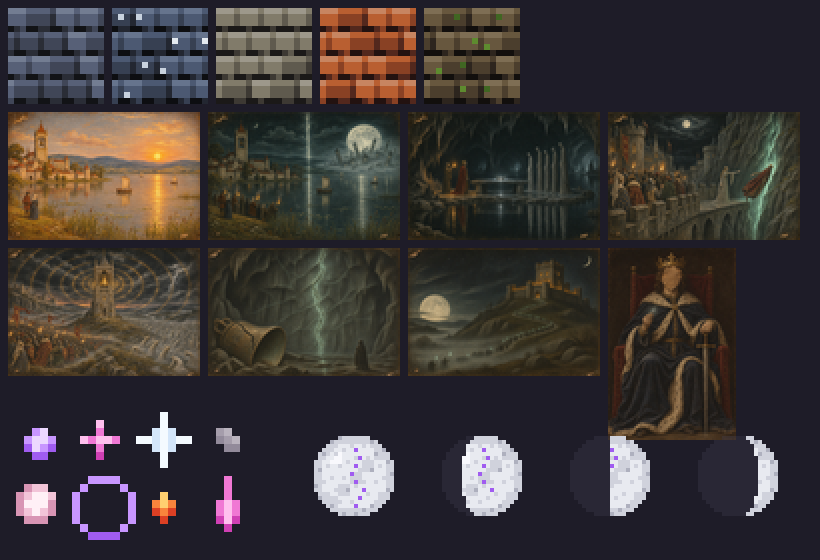
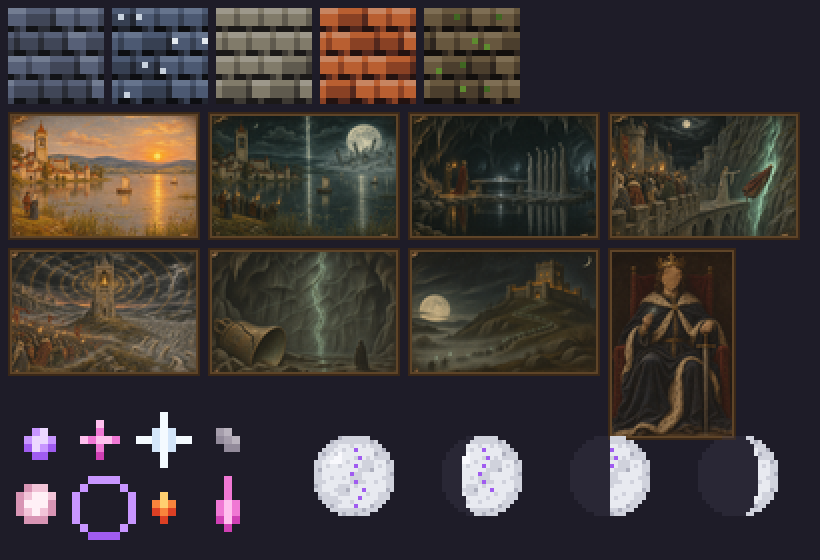
Drop duplicate painting files: the lore portraits already hang in game
Claude-Session: https://claude.ai/code/session_01A4uWhYRSEH2XWBk9pdCzAk

diff --git a/studio/art/build_missing2.py b/studio/art/build_missing2.py
@@ -1,6 +1,5 @@
-"""Missing art, batch 2 (2026-11-10 audit): regional roof shingles, Mateo's eight paintings at game size,
-a particle sprite sheet with four particle effects, and an uneasy moon.   python3 build_missing2.py [repo root]
-Mateo's paintings are only resized, never repainted."""
+"""Missing art, batch 2 (2026-11-10 audit): regional roof shingles,
+a particle sprite sheet with four particle effects, and an uneasy moon.   python3 build_missing2.py [repo root]"""
 import os, sys, json, math, random
 sys.path.insert(0, os.path.dirname(os.path.abspath(__file__)))
 from PIL import Image
@@ -35,13 +34,10 @@ os.makedirs(RP + 'textures/blocks/regional', exist_ok=True); roofs = []
 for i, (reg, (rp, kw)) in enumerate(ROOFS.items()):
     t = shingles(rp, seed=7 + i, **kw); t.save(RP + f'textures/blocks/regional/siege_roof_shingles_{reg}.png'); roofs.append(t.im.copy())
 
-# ---- 2. Mateo's paintings, resized only (32 px per block: 3x2 blocks, plate 8 is 2x3)
-os.makedirs(RP + 'textures/entity/painting', exist_ok=True); plates = []
-for n in range(1, 9):
-    src = ROOT + f'lore-book/plates/art/plate_{n}.jpg'
-    if not os.path.exists(src): continue
-    im = Image.open(src).convert('RGB'); size = (96, 64) if im.width > im.height else (64, 96)
-    im = im.resize(size, Image.LANCZOS).convert('RGBA'); im.save(RP + f'textures/entity/painting/plate_{n}.png'); plates.append(im)
+# ---- 2. Mateo's paintings: already in the game as textures/entity/portrait/plate_1..8.png (lore thread,
+# studio/build_lore_portraits.py). Only shown on the sheet here, nothing is written.
+plates = [Image.open(RP + f'textures/entity/portrait/plate_{n}.png').convert('RGBA') for n in range(1, 9)
+          if os.path.exists(RP + f'textures/entity/portrait/plate_{n}.png')]
 
 # ---- 3. particle sheet: 8 sprites of 8x8 on a 32x16 sheet
 VI = fixed('#2a1250', '#4a1e88', '#7234c4', '#a05cf0', '#c896ff', '#ecd8ff'); MG = fixed('#3a0c38', '#6a1660', '#a0248c', '#d040b4', '#f078d4', '#ffc0ee')

diff --git a/studio/build_manifest.py b/studio/build_manifest.py
@@ -177,7 +177,7 @@ g("ballista","Ballista","Siege machines",[{"label":"Ballista","model":"entity","
 g("ram","Battering Ram","Siege machines",[{"label":"Ram","model":"entity","geo":"geometry.siege_battering_ram","mats":{"*":E+'siege_battering_ram.png'}}],"Shown at model size. In game it's scaled up 1.35x.")
 g("quartermaster","Quartermaster","Mobs",[{"label":"Quartermaster","model":"entity","geo":"geometry.villager.v1.8","mats":{"*":E+'siege_quartermaster.png'}}])
 g("roofs_regional","Roof shingles by region","Regional styles",[cube(r.title(),one('regional/siege_roof_shingles_'+r)) for r in ("vale","frostmarch","saltreach","emberwaste","blackfen")],"Slate, frosted slate, driftwood shakes, fired clay, mossy thatch. Painted, not wired as blocks yet.")
-g("plates","Your eight paintings, game size","Lore and library",[{"label":"Plate %d"%k,"model":"item","mats":{"*":'textures/entity/painting/plate_%d.png'%k}} for k in range(1,9)],"Your own paintings, only made smaller (three blocks by two). Not hanging in the game yet.")
+g("plates","Your eight paintings, game size","Lore and library",[{"label":"Plate %d"%k,"model":"item","mats":{"*":'textures/entity/portrait/plate_%d.png'%k}} for k in range(1,9)],"Your own paintings, only made smaller (three blocks by two). They hang in the settlement Libraries; the last one only in the Burned Archive.")
 g("particles","Particles","The Hollow",[{"label":"Sheet","model":"item","mats":{"*":'textures/particle/hc_particles.png'}}],"Mote, vein spark, glint, ash flake, spore, sung note, ember, moss drip. Seven effects are defined; nothing uses them yet.")
 g("moon","The moon","Other",[{"label":"Phases","model":"item","mats":{"*":'textures/environment/moon_phases.png'}}],"A hairline violet crack that shows more the fuller the moon is.")
 g("barding","Castle Guard Barding","Mobs",[{"label":"On a horse","model":"horse","geo":"geometry.horse.v2","mats":{"*":E+'horse2/armor/horse_armor_iron.png'}}],"Replaces iron horse armor.")

diff --git a/TEXTURE-LIST.md b/TEXTURE-LIST.md
@@ -449,7 +449,6 @@ The Texture Studio now lists every PNG under `textures/` automatically (catch-al
 | Asset | File | Status |
 |---|---|---|
 | Roof shingles per region (Vale blue slate, Frostmarch frosted dark slate, Saltreach driftwood shakes, Emberwaste fired clay, Blackfen mossy thatch) | `textures/blocks/regional/siege_roof_shingles_<region>.png` | **Final style, awaiting your review.** Not wired as blocks; all regions still use `siege_roof_shingles.png` |
-| Mateo's eight paintings at game size (96×64, plate 8 is 64×96; resized only, never repainted) | `textures/entity/painting/plate_1.png` to `plate_8.png` | Ready. Needs a hanging entity like `siege:portrait` (lore thread) |
 | Particle sheet (32×16, eight 8×8 sprites: mote, vein spark, glint, ash flake, spore, sung note, ember, moss drip) | `textures/particle/hc_particles.png` | **Final style, awaiting your review** |
 | Seven particle effects: `siege:hollow_mote`, `vein_spark`, `glint`, `pale_ash`, `veil_spore`, `choir_ring`, `moss_drip` | `particles/<name>.particle.json` | Written, untested in game, nothing spawns them yet |
 | The moon (128×64, vanilla phase layout): a hairline violet crack that shows more the fuller the moon is | `textures/environment/moon_phases.png` | **Final style, awaiting your review.** Replaces the vanilla moon everywhere |
